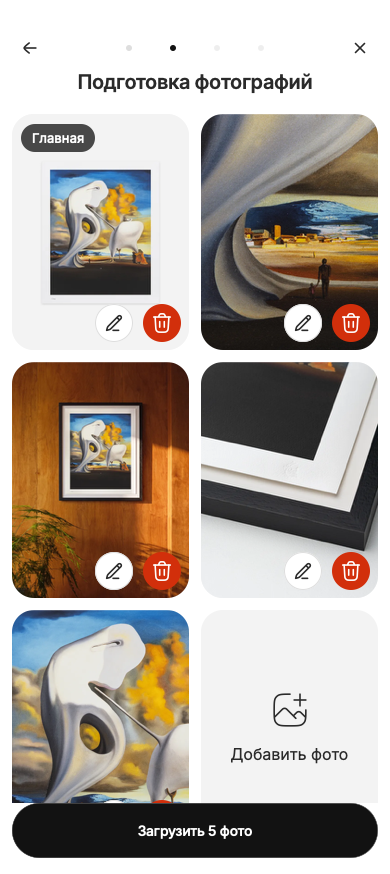
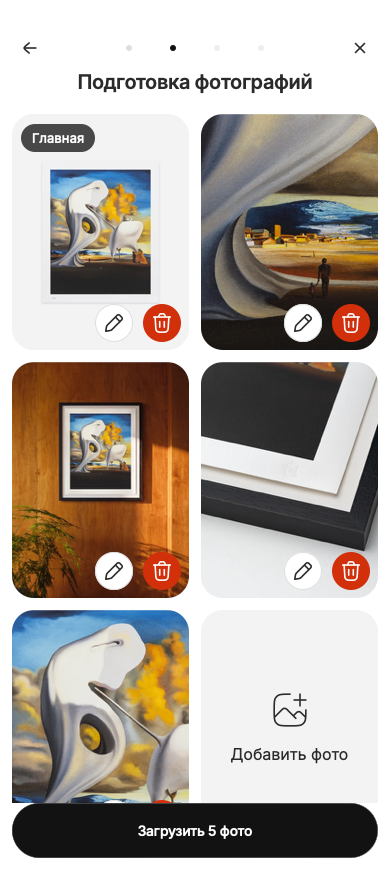
fix issue:
* replaced photo edit icon with approved pencil
* updated icon registry and screenshot evidence

diff --git a/apps/mobile/src/features/sellers/product-draft-images.tsx b/apps/mobile/src/features/sellers/product-draft-images.tsx
@@ -388,7 +388,7 @@ export function ProductDraftImagesStep({
                           }}
                         >
                           <FigmaIconButton
-                            icon="pencil-edit-01"
+                            icon="edit-03"
                             iconSize={22}
                             surface="outline"
                             label={`Редактировать фото ${image.position + 1}`}

diff --git a/apps/mobile/src/components/figma/FigmaIcon.tsx b/apps/mobile/src/components/figma/FigmaIcon.tsx
@@ -33,6 +33,7 @@ import {
   Flag01Icon,
   Link01Icon,
   PencilEdit01Icon,
+  Edit03Icon,
   Delete02Icon,
   FilterHorizontalIcon,
   GoogleIcon,
@@ -102,6 +103,7 @@ const icons = {
   'flag-01': Flag01Icon,
   'link-01': Link01Icon,
   'pencil-edit-01': PencilEdit01Icon,
+  'edit-03': Edit03Icon,
   'qr-code-01': QrCode01Icon,
   'lock-keyhole': LockKeyholeIcon,
   'clock-04': Clock04Icon,

diff --git a/apps/mobile/src/components/figma/figma-icon-names.spec.ts b/apps/mobile/src/components/figma/figma-icon-names.spec.ts
@@ -25,6 +25,7 @@ describe('Figma icon registry', () => {
       'flag-01',
       'link-01',
       'pencil-edit-01',
+      'edit-03',
       'qr-code-01',
       'lock-keyhole',
       'clock-04',

diff --git a/apps/mobile/src/components/figma/figma-icon-names.ts b/apps/mobile/src/components/figma/figma-icon-names.ts
@@ -19,6 +19,7 @@ export const figmaIconNames = [
   'flag-01',
   'link-01',
   'pencil-edit-01',
+  'edit-03',
   'qr-code-01',
   'lock-keyhole',
   'clock-04',

diff --git a/docs/product/11-PROJECT-STATUS.md b/docs/product/11-PROJECT-STATUS.md
@@ -16,6 +16,17 @@
 | Legal / операции / live abuse protection | Partial / Needs verification: [legal owner](../legal/00-FINAL-LEGAL-AUDIT.md), [operations](../ops/00-RELEASE-AND-BACKUP.md), [release gates](../audits/current/12-PORTFOLIO-MVP-RELEASE-AUDIT.md). Локальные tests не доказывают SMTP delivery, production Turnstile или CDN purge. |
 | Commerce, избранное/подписки, смена email/password из settings | Not implemented в launch scope / post-MVP; [следующая волна](15-POST-MVP-BACKLOG.md). Старый commerce runtime не разрешает включать продажи. |
 
+## 2026-10-27 — Photo edit icon reference
+
+**Implemented for tested local Web icon change; workflow remains Partial.** Photo grid edit controls now select
+Hugeicons `Edit03Icon` through the shared `FigmaIcon` registry, matching the
+founder-provided pencil without an underline. Existing `pencil-edit-01` consumers
+in CreatorHeader/CreatorWorkCard retain their icon. Button geometry, labels and
+callbacks are unchanged. Node 22: 53 targeted owner/icon tests and affected graph
+typecheck/lint, Web export, Chromium/WebKit media checks (2/2), formatting,
+docs links and diff check passed. Preparation/error screenshots refreshed and
+visually checked; Native rendering was not checked.
+
 ## 2026-10-27 — Photo grid acceptance cleanup
 
 **Implemented for tested local Web corrections; workflow remains Partial.**

diff --git a/docs/audits/2026-10-26-PHOTO-WORKFLOW.md b/docs/audits/2026-10-26-PHOTO-WORKFLOW.md
@@ -171,3 +171,17 @@ retained-settings rerun with Close assertions passed 2/2. E2E fence, docs links,
 formatting and diff check passed. Backend tests and native exports were not rerun
 for this client-only change. Overall Partial remains: physical Native gestures,
 200% zoom and live CDN are unverified. No merge/deploy.
+
+
+## 2026-10-27 — Founder photo edit icon
+
+The supplied screenshot replaces only the photo grid edit glyph with installed
+Hugeicons `Edit03Icon` (`edit-03`), a diagonal pencil without the underline.
+Shared FigmaIcon/Button still own rendering and interaction; existing
+`pencil-edit-01` consumers are unchanged. Preparation and upload/error screenshots
+above refreshed for both browsers; Chromium preparation and WebKit error
+visually checked against the supplied reference. No new dependency or SVG engine.
+Node 22: 53 targeted icon/lifecycle tests, affected graph typecheck/lint, Web
+export and 2/2 Chromium/WebKit retained-settings media checks passed. Formatting,
+193-file docs links and diff check passed. Physical Native rendering, 200% zoom
+and live CDN were not checked. Overall workflow remains Partial; no merge/deploy.

diff --git a/docs/design/04-DESIGN-STATUS.md b/docs/design/04-DESIGN-STATUS.md
@@ -5,6 +5,16 @@
 Полный прежний журнал, включая ограничения ранних экранов:
 [история](../archive/design/04-DESIGN-STATUS-through-2026-10-23.md).
 
+## 2026-10-27 — Photo edit icon reference
+
+**Partial.** Founder screenshot approves a diagonal
+pencil without an underline. Photo grid uses installed Hugeicons `Edit03Icon`
+via the shared registry; its 22px glyph, outline button and interaction stay
+unchanged. Other edit-icon consumers retain `PencilEdit01Icon`.
+Chromium/WebKit media checks passed (2/2), Web export passed, refreshed
+[preparation/error screenshots](../audits/2026-10-26-PHOTO-WORKFLOW.md) visually
+checked. Native rendering and 200% zoom were not checked.
+
 ## 2026-10-27 — Photo grid acceptance cleanup
 
 **Partial.** Removed the extra grid discard button; disabled upload/error CTA

diff --git a/docs/design/03-DESIGN-SYSTEM.md b/docs/design/03-DESIGN-SYSTEM.md
@@ -1003,3 +1003,11 @@ shared controls. Native/zoom accessibility remains Needs verification in
 owns regular 13/18 metadata for Work/avatar. `FigmaIcon reset` uses the installed
 Hugeicons Undo vector, matching `7342:726`; no new icon renderer. Crop library
 styles are scoped to `photo-cropper` and preserve visible keyboard focus.
+
+
+### Photo edit glyph (2026-10-27)
+
+Founder-provided screenshot selects Hugeicons `Edit03Icon` (registry `edit-03`)
+for photo grid edit controls: diagonal pencil without an underline. Existing
+`pencil-edit-01` remains available to its other consumers. The existing
+FigmaIconButton owns size, focus, disabled state and hit target unchanged.
